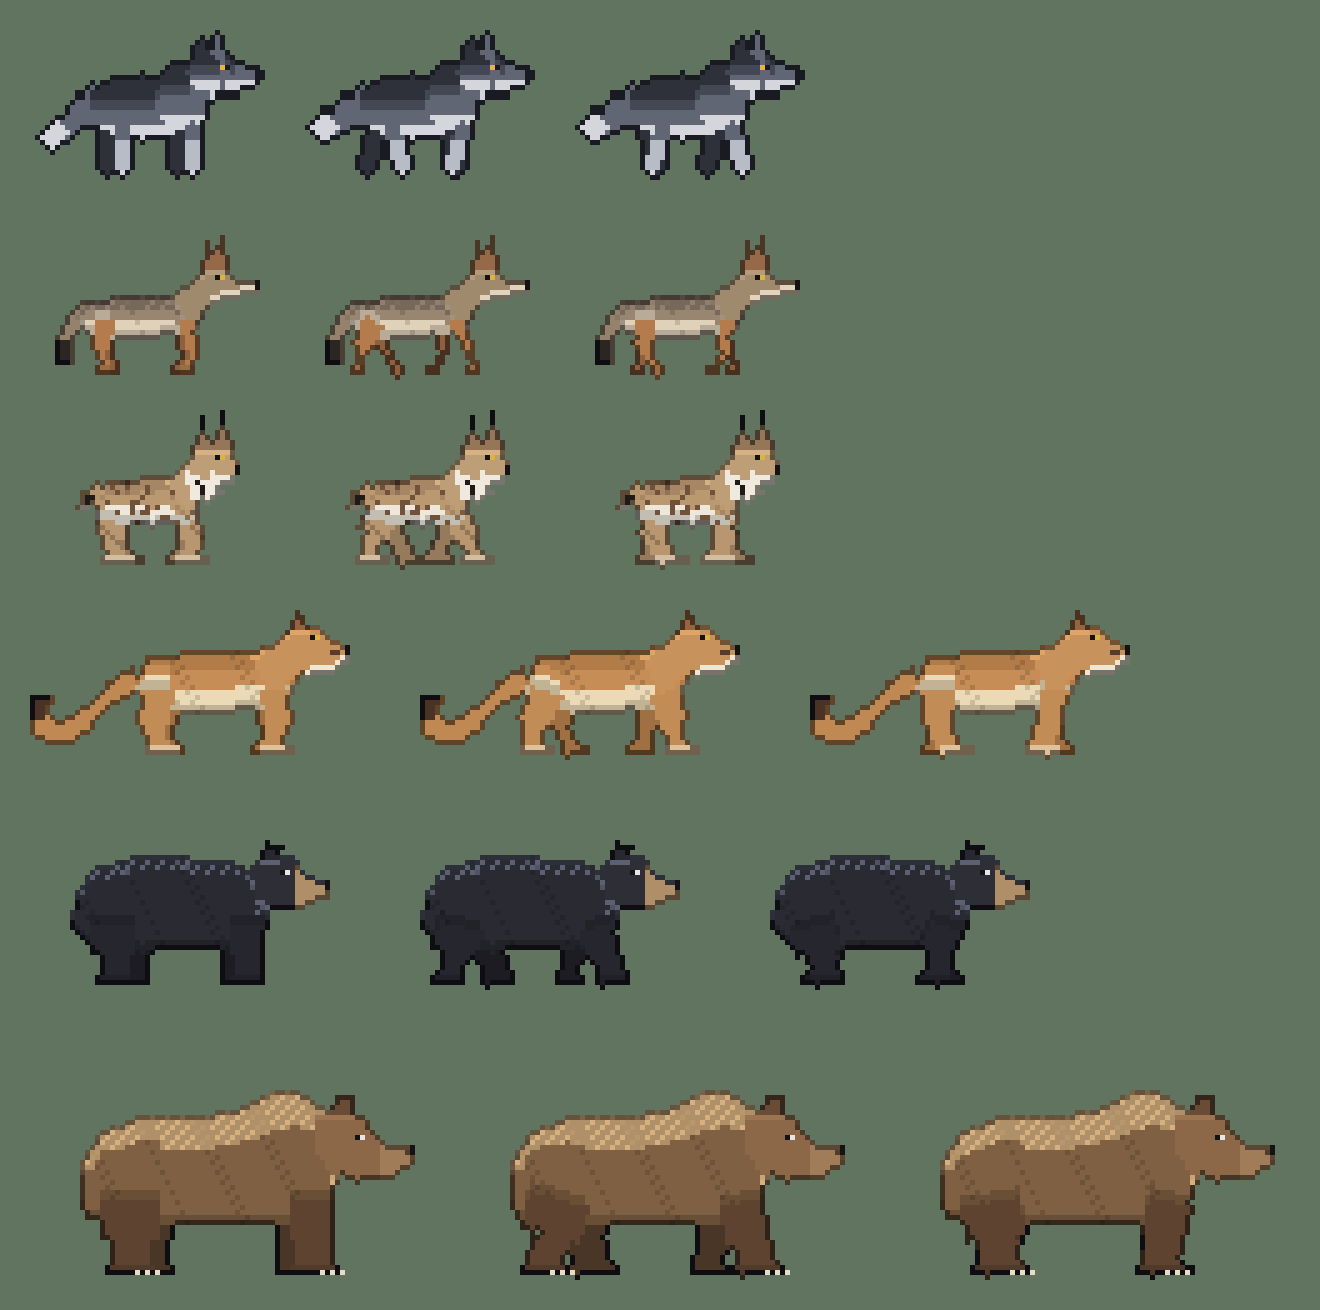
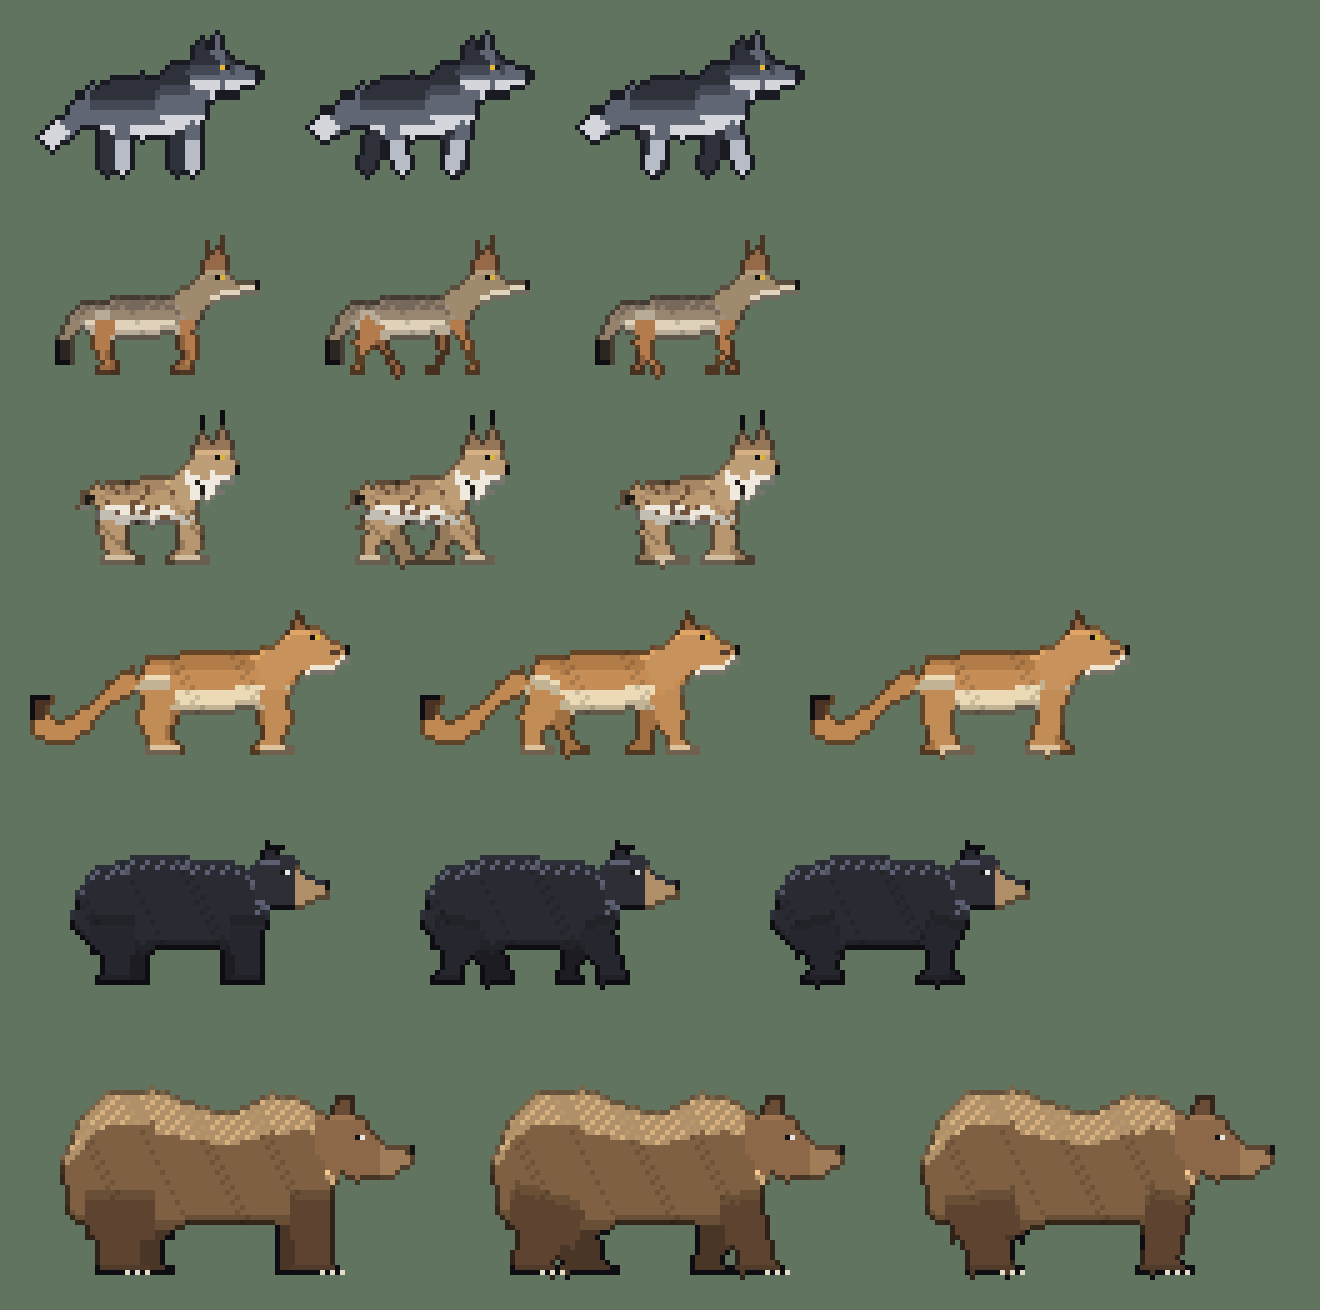
灰熊下半身加大（臀部比肩峰大、保留小肩峰）；郊狼、猞猁、美洲獅、黑熊的動作圖預覽；遊戲素材待確認後再換
Claude-Session: https://claude.ai/code/session_01HkqM82v9towmCBuEomSQC3

diff --git a/arts/art_predators_v2_2026-10-13/gen_predators.py b/arts/art_predators_v2_2026-10-13/gen_predators.py
@@ -73,13 +73,14 @@ SPECIES = {
         sheen=(92, 96, 114)),
     'grizzly_bear': dict(
         frame=(80, 52), ground=50, split=42, file='bear_adult',
-        body=[(10, 37), (10, 28), (14, 22), (21, 19), (32, 19), (42, 17), (48, 14), (53, 14), (58, 17), (61, 22), (62, 29), (59, 37),
-              (51, 40), (30, 40), (17, 40), (11, 39)],
+        # 下半身（臀部、後腿）比肩峰更大：臀部頂端比肩峰高、往後更寬，肩峰降低
+        body=[(7, 38), (6, 28), (9, 20), (15, 14), (24, 13), (32, 16), (39, 18), (44, 16), (48, 14), (53, 15), (58, 18), (61, 23), (62, 29), (59, 37),
+              (51, 40), (30, 41), (15, 41), (9, 40)],
         head=[(57, 19), (62, 17), (66, 19), (68, 22), (70, 24), (75, 25), (76, 28), (72, 31), (65, 32), (60, 30), (57, 26)],
         jaw=[(69, 29), (75, 29), (73, 31), (69, 31)],
         ears=[[(60, 18), (61, 15), (64, 15), (64, 18)]],
         eye=(66, 23), nose=(76, 25), muzzle_x=70,
-        legs=[('far', (52, 36), 8, 7, 0), ('far', (23, 36), 10, 8, 0), ('near', (56, 36), 9, 8, 0), ('near', (19, 36), 12, 8, 0)],
+        legs=[('far', (52, 36), 8, 7, 0), ('far', (22, 36), 12, 9, 0), ('near', (56, 36), 9, 8, 0), ('near', (17, 36), 14, 9, 0)],
         paw=3, tail=None, claws=True,
         colors={BODY: (128, 96, 66), HEAD: (140, 104, 72), EAR: (104, 76, 54), LEG: (94, 68, 48),
                 FARLEG: (74, 54, 38), PAW: (80, 58, 42), MUZZLE: (160, 124, 88)},
@@ -106,7 +107,8 @@ def pose_params(pose, phase, bear):
         lift = [1 if phase == 3 else 0, 1 if phase == 1 else 0, 1 if phase == 1 else 0, 1 if phase == 3 else 0]
         bob = 1 if phase in (1, 3) else 0
     elif pose == 'attack':
-        fdx, fdy, hdx, hdy = 3, -4, 1, -1
+        # 頭保持水平往前（前半身抬起時頭不再跟著仰）
+        fdx, fdy, hdx, hdy = 3, -4, 2, 2
         swing = [4, -4, 7, -5]; lift = [3, 0, 5, 0]
         mouth = True
     elif pose == 'hurt':
@@ -178,7 +180,7 @@ def draw_frame(sp, pose='idle', phase=0):
         d.polygon([tf(nk[0]), tf(nk[1], True), tf(nk[2], True), tf(nk[3])], fill=HEAD)
     d.polygon([tf(p, True) for p in sp['head']], fill=HEAD)
     if mouth:
-        jaw = [tf((x, y + 2), True) for x, y in sp['jaw']]
+        jaw = [tf((x, y + 1), True) for x, y in sp['jaw']]
         d.polygon(jaw, fill=HEAD)
     if sp.get('ruff'):
         d.polygon([tf(p, True) for p in sp['ruff']], fill=MUZZLE)
@@ -323,8 +325,32 @@ def preview(path):
     out.resize((W * 5, H * 5), Image.NEAREST).save(path)
 
 
+def preview_actions(path, keys):
+    rows = []
+    for k in keys:
+        sp = SPECIES[k]
+        if sp.get('tail') is None:
+            fr = [draw_frame(sp, f'swipe{i}') for i in range(4)] + [draw_frame(sp, 'hurt')]
+        else:
+            fr = [draw_frame(sp, 'attack'), draw_frame(sp, 'hurt')] + ([draw_frame(sp, 'threaten')] if k == 'cougar' else [])
+        rows.append(fr)
+    W = max(sum(f.width + 6 for f in r) for r in rows) + 6
+    H = sum(max(f.height for f in r) + 6 for r in rows) + 6
+    out = Image.new('RGBA', (W, H), (96, 116, 96, 255))
+    y = 6
+    for r in rows:
+        h = max(f.height for f in r); x = 6
+        for f in r:
+            out.alpha_composite(f, (x, y + h - f.height)); x += f.width + 6
+        y += h + 6
+    out.resize((W * 5, H * 5), Image.NEAREST).save(path)
+
+
 if __name__ == '__main__':
     import sys
+    if '--preview-actions' in sys.argv:
+        preview_actions(ARCH + 'preview_v3_actions.png', ['coyote', 'lynx', 'cougar', 'black_bear'])
+        sys.exit(0)
     if '--preview' in sys.argv:
         preview(ARCH + 'preview_v3_basic.png')
         sys.exit(0)
